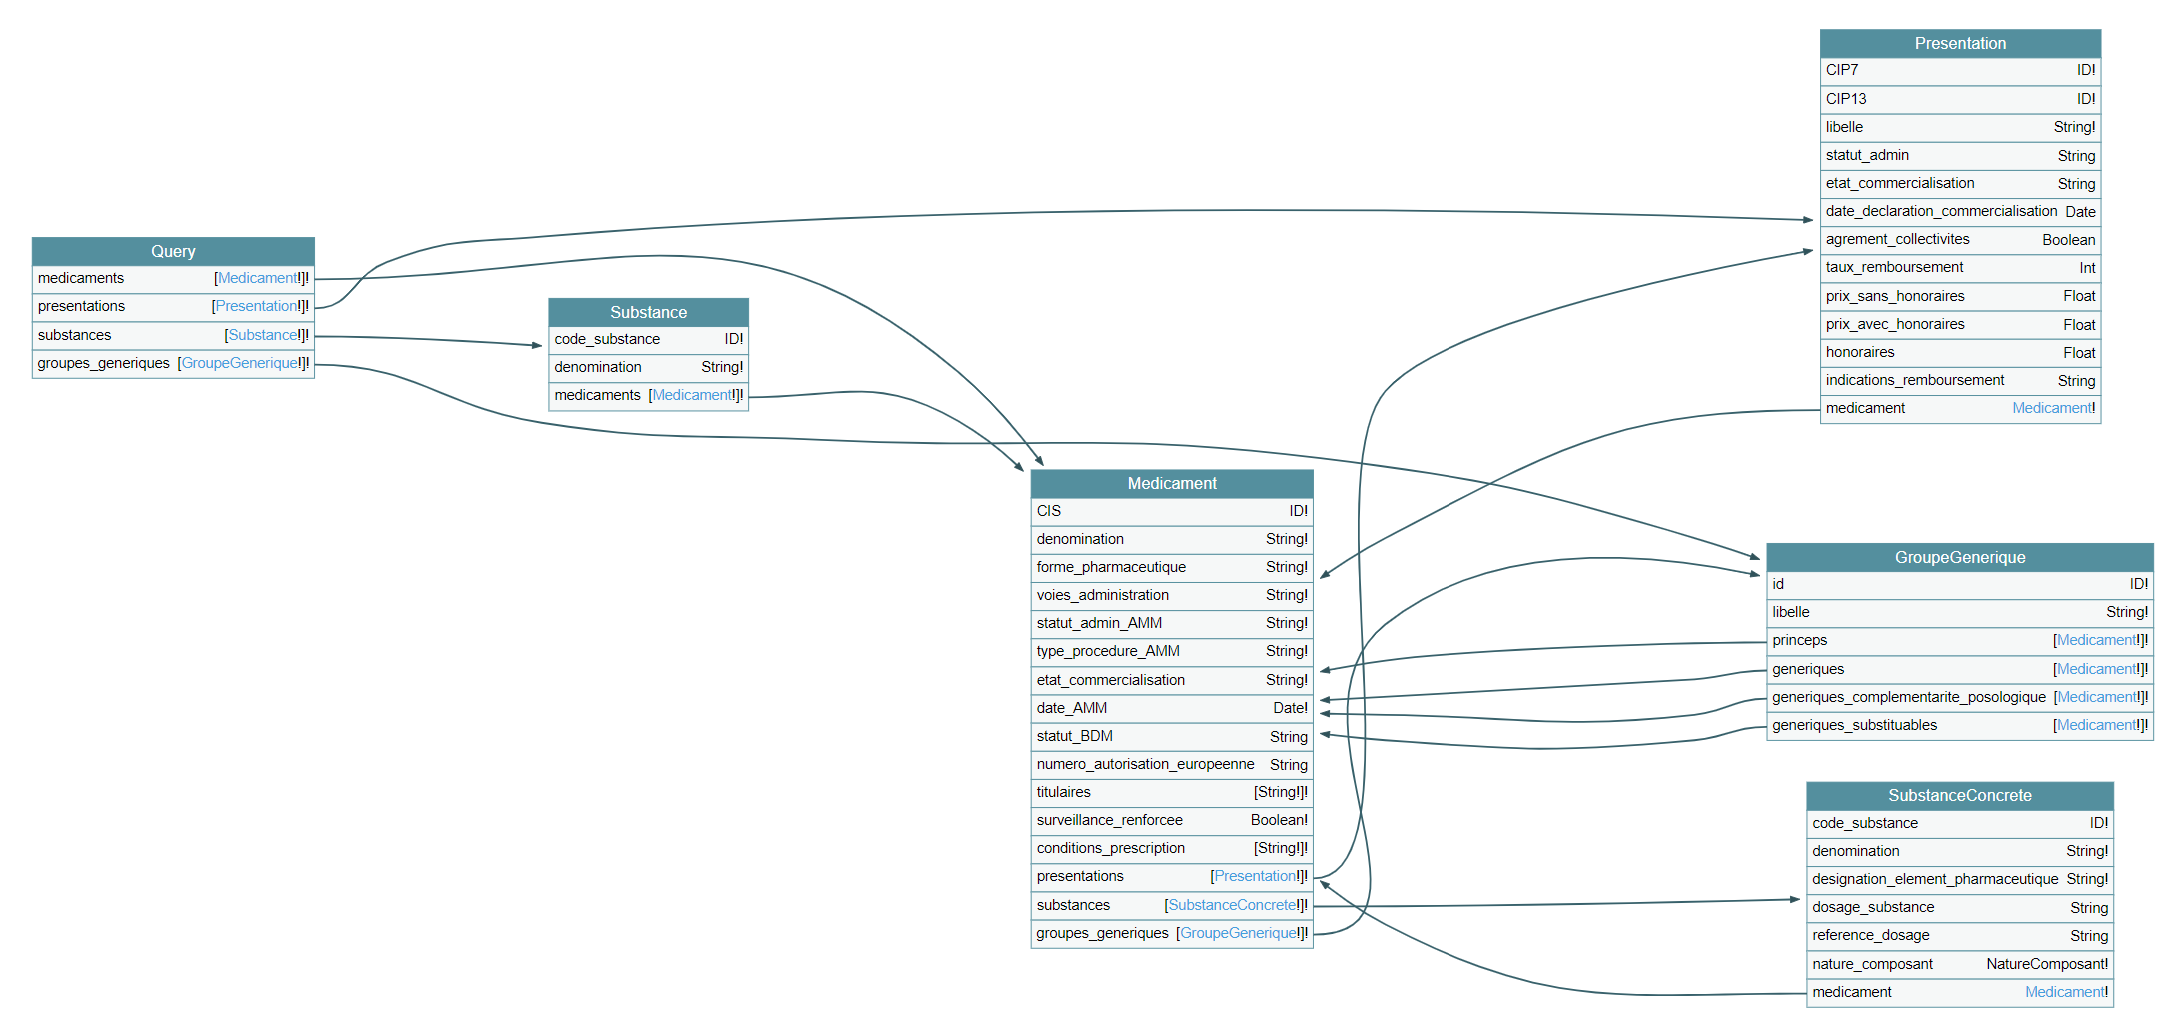
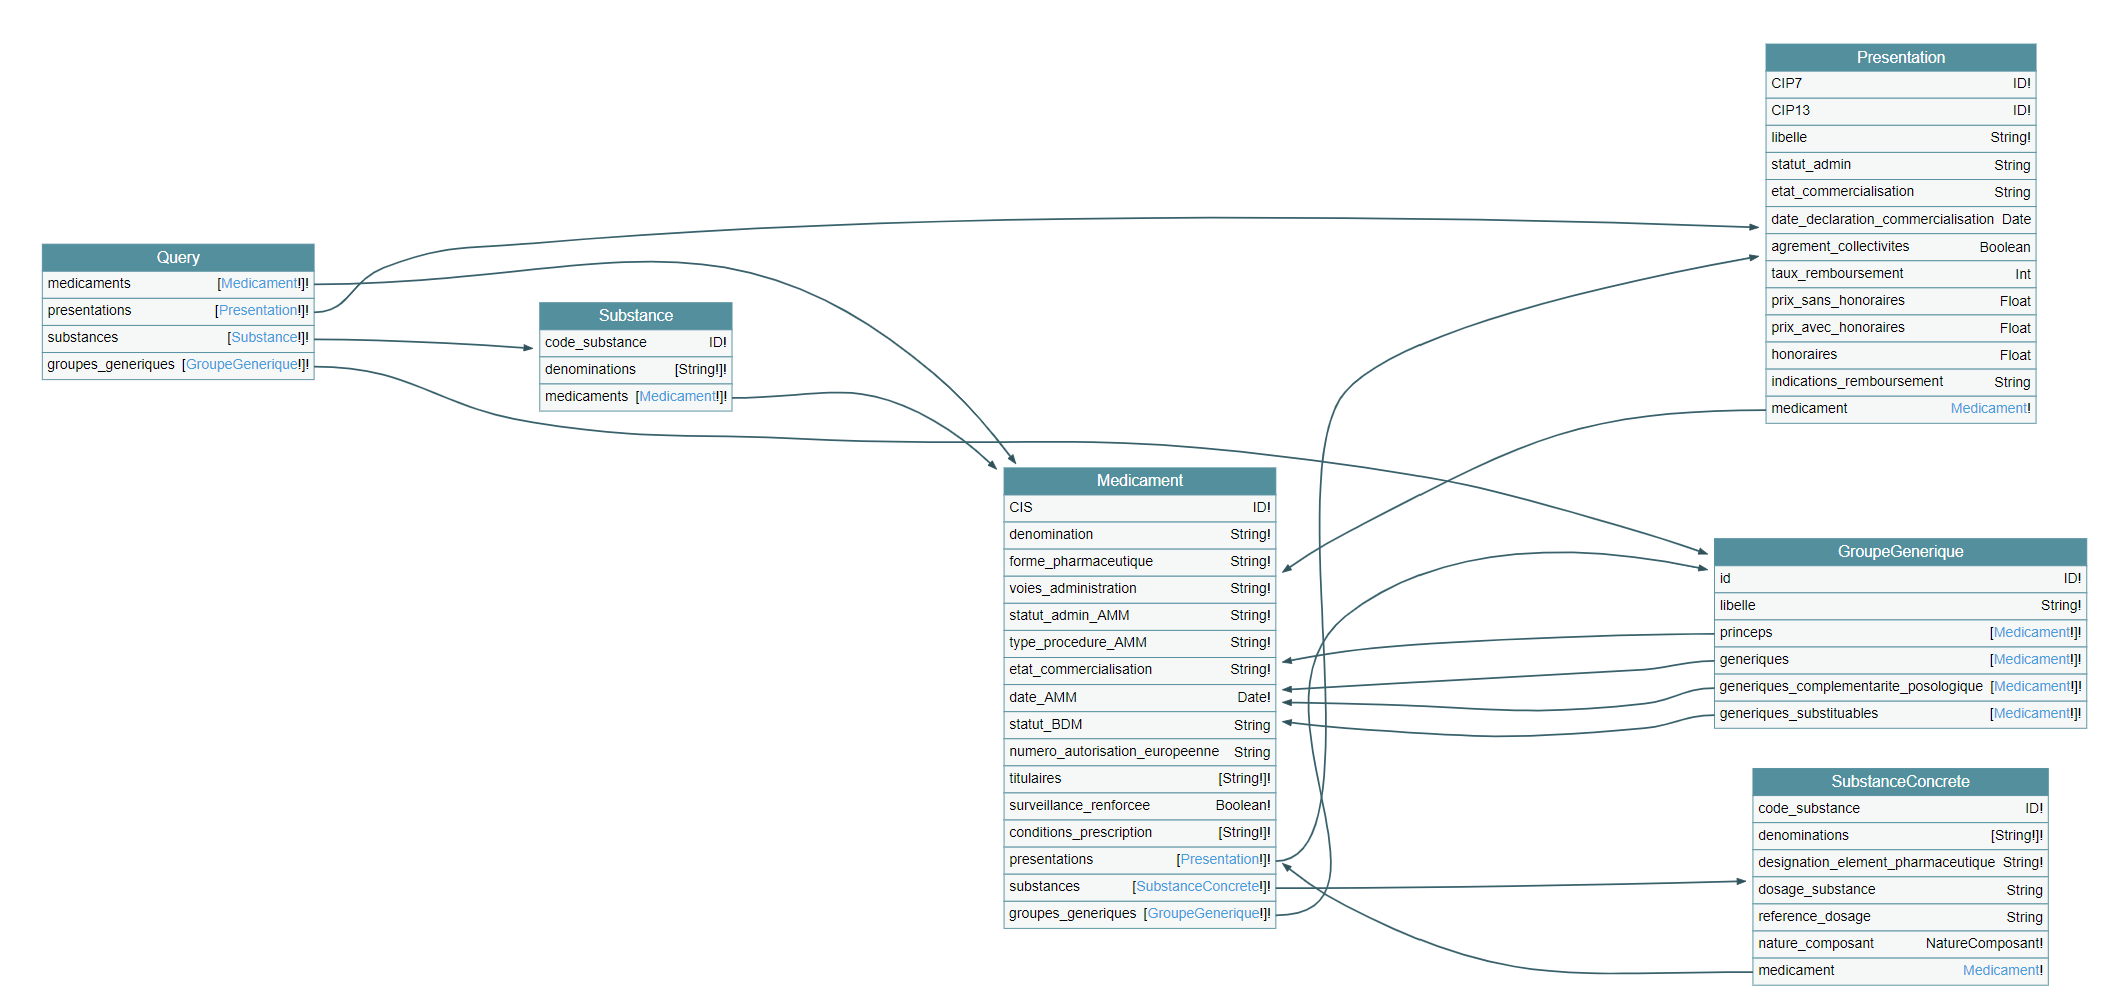
Accumule les dénominations d'une substance dans un tableau

diff --git a/src/graph.js b/src/graph.js
@@ -34,13 +34,6 @@ function indexByIds(objects, ids, accumulate) {
     );
 }
 
-function keepFirstElementOfArrayValues(object) {
-    return Object.keys(object).reduce((newObj, key) => {
-        newObj[key] = object[key][0];
-        return newObj;
-    }, {});
-}
-
 function mapToIndex(array, key, index) {
     let keys = array.map(o => o[key]);
     keys = Array.from(new Set(keys));
@@ -68,6 +61,10 @@ async function buildGraph() {
     let substances = await props.substances;
     removeLeadingZerosOfFields(substances, ['code_substance', 'CIS']);
     substances = indexByIds(substances, ['code_substance', 'CIS'], [true, true]);
+    Object.values(substances.code_substance).forEach(substances => {
+        const denominations = Array.from(new Set(substances.map(s => s.denomination)));
+        substances.forEach(s => s.denominations = denominations);
+    });
 
     let groupesGeneriques = await props.groupesGeneriques;
     removeLeadingZerosOfFields(groupesGeneriques, ['CIS']);
@@ -130,7 +127,9 @@ async function buildGraph() {
     });
 
     const graph = {
-        'substances': keepFirstElementOfArrayValues(substances.code_substance),
+        'substances': Object.fromEntries(Object.entries(substances.code_substance)
+            .map(([code, substances]) => [code, substances[0]])
+        ),
         'medicaments': medicaments,
         'presentations': presentations,
         'groupes_generiques': groupesGeneriquesById,
